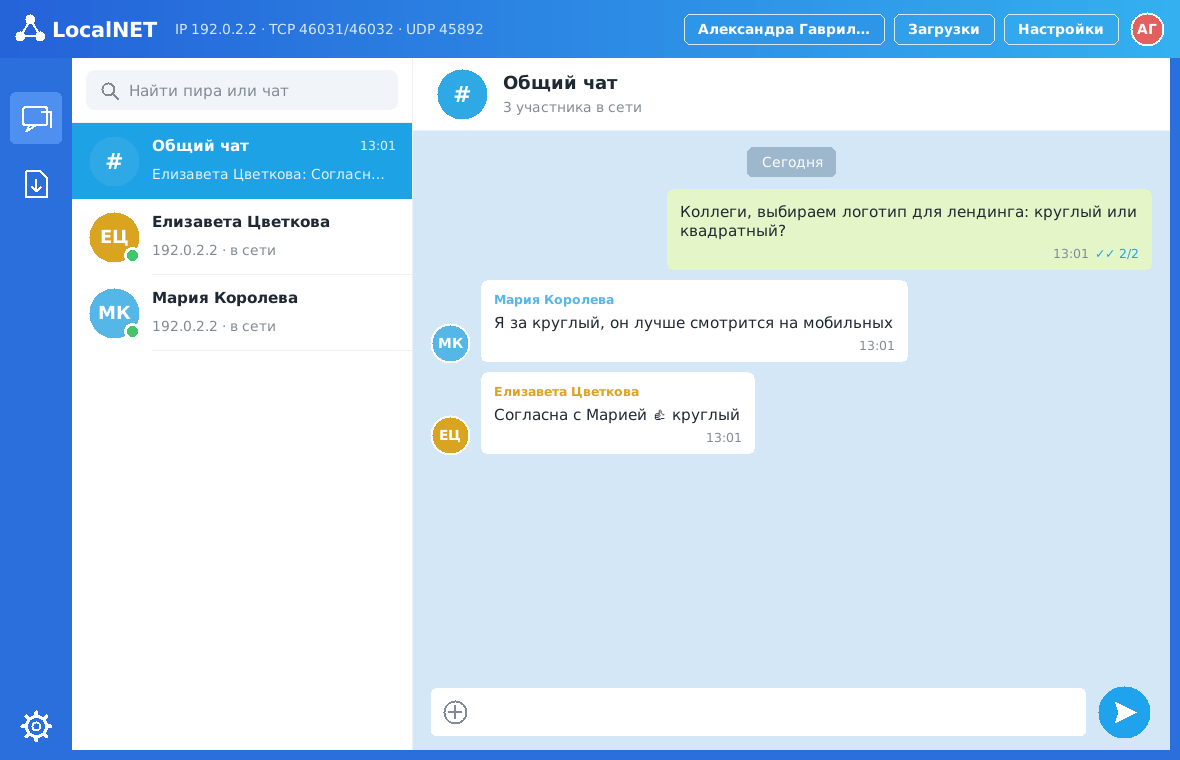
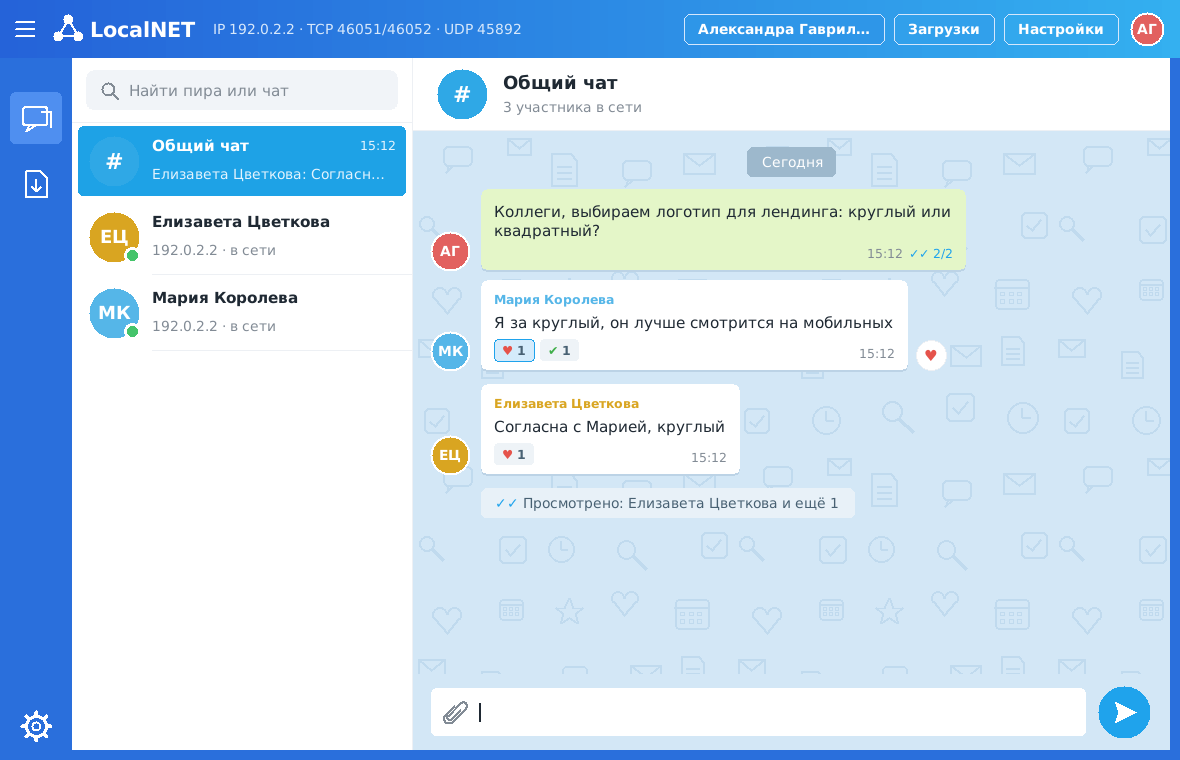
docs: история, прочтение и реакции; новые скриншоты
Claude-Session: https://claude.ai/code/session_01SgVpVZMk52zURE2ZvYqCeM

diff --git a/README.md b/README.md
@@ -6,7 +6,9 @@
 друг друга за пару секунд.
 
 * **Автообнаружение** — UDP broadcast + multicast, пиры появляются за ≤ 2 с, уходят в offline через 6 с.
-* **Чат** — общий (всем online-пирам) и личный; подтверждения доставки ✓.
+* **Чат** — общий (всем online-пирам) и личный; доставка ✓✓, «Просмотрено: …», реакции ♥ ✔ ★ ☺ ☹.
+* **История переписки** сохраняется на диске и подгружается после перезапуска; собеседники
+  не в сети остаются в списке.
 * **Файлы** — прямой TCP, `sendfile()` (zero-copy) на Linux, chunked-режим на Windows;
   SHA-256 проверка целостности, прогресс и скорость, отмена, **докачка** после обрыва.
   RAM не зависит от размера файла (1 ГБ передаётся при ~25 МБ RSS).
@@ -77,17 +79,23 @@ python3 -m localnet --cli      # консольный режим
 ### Как пользоваться (GUI)
 
 * **Слева** — разделы: «Чаты» и «Файлы» (все передачи), внизу — настройки.
-* **Список чатов**: «Общий чат» (сообщение получат все в сети) и все найденные участники —
-  аватар, имя, последнее сообщение, время, счётчик непрочитанных; зелёная точка — в сети.
-  Поиск сверху фильтрует по имени и IP.
-* **Переписка**: свои сообщения справа (зелёные), чужие слева. ✓ — отправлено,
-  ✓✓ — доставлено, `✓✓ 2/3` — доставлено двум из трёх. Правый клик — копировать текст.
-* **Файлы**: кнопка «Отправить файл» в заголовке чата или «⊕» у поля ввода. Передача
+* **Список чатов**: «Общий чат» (сообщение получат все в сети), участники в сети и знакомые
+  по истории — аватар, имя, последнее сообщение, время, счётчик непрочитанных; зелёная
+  точка — в сети. Поиск сверху фильтрует по имени и IP. «☰» в шапке скрывает список.
+* **Переписка**: все сообщения слева, свои — зелёные (как в корпоративных мессенджерах;
+  в настройках можно перенести свои вправо). ✓ — отправлено, серые ✓✓ — доставлено,
+  синие ✓✓ — прочитано; под последним своим сообщением — «Просмотрено: Мария и ещё 1».
+  Сообщение считается прочитанным, когда его чат открыт в активном окне.
+* **Реакции**: наведите на сообщение — справа появится ♡, щелчок ставит/снимает ♥.
+  Правый клик — меню реакций (♥ нравится, ✔ согласен, ★ важно, ☺ смешно, ☹ грустно)
+  и «Копировать текст». Реакции видят все участники чата.
+* **Файлы**: кнопка «Отправить файл» в заголовке чата или скрепка у поля ввода. Передача
   показывается карточкой прямо в переписке: прогресс, скорость, «Отменить»; входящий файл —
   «Принять» / «Отклонить» (или включите автоприём в настройках). После проверки хеша —
   «Открыть папку». Неудачную отправку можно повторить одной кнопкой (с докачкой).
 * **Настройки** (шестерёнка, кнопка в шапке или свой аватар): имя, папка для файлов
-  (по умолчанию `~/Downloads/LocalNET`), автоприём, сведения об IP и портах.
+  (по умолчанию `~/Downloads/LocalNET`), автоприём, расположение своих сообщений,
+  сохранение истории и «Очистить историю…», сведения об IP, портах и файлах.
 
 ### CLI
 
@@ -132,7 +140,9 @@ python -m localnet --cli [--nickname Вася] [--auto-accept]
   "announce_interval": 1.0,
   "peer_timeout": 6.0,
   "log_level": "INFO",
-  "transport": "auto"
+  "transport": "auto",
+  "save_history": true,
+  "own_messages_right": false
 }
 ```
 
@@ -149,6 +159,8 @@ python -m localnet --cli [--nickname Вася] [--auto-accept]
 | `download_dir` | Папка входящих файлов. Пусто — `~/Downloads/LocalNET`. |
 | `auto_accept` | Принимать файлы без вопроса. |
 | `transport` | Транспорт сообщений: `auto` (pyzmq, если есть, иначе чистый Python), `zmq`, `python`. Совместимы между собой. |
+| `save_history` | Сохранять историю переписки на диске (по умолчанию да). |
+| `own_messages_right` | Свои сообщения справа (по умолчанию все слева). |
 
 ### Как поменять порт
 
@@ -157,6 +169,12 @@ python -m localnet --cli [--nickname Вася] [--auto-accept]
 
 `discovery_port` должен быть одинаковым у всех. TCP-порты могут различаться —
 каждый узел сообщает свои порты в анонсах. Порты ≤ 1024 не используются (они требуют прав root).
+
+История переписки — файл SQLite рядом с настройками: `config.json` → `config.history.db`
+(в portable-режиме — рядом с программой). Там же хранится постоянный ID узла, по которому
+собеседники узнают вас после перезапуска. Файл не шифруется; при копировании на другой
+компьютер или другому пользователю ID узла создаётся заново. Отключить — `save_history: false`,
+очистить — кнопкой в настройках.
 
 Логи: `%APPDATA%\LocalNET\logs\localnet.log` или `~/.config/localnet/logs/localnet.log`
 (ротация, 3 × 2 МБ). Подробный лог — флаг `--debug`.
@@ -284,6 +302,7 @@ python -m pytest -v
 | `tests/test_discovery.py` | разбор/валидация presence-пакетов, подписи и защита от повтора, таблица пиров (offline, забывание, перезапуск узла) |
 | `tests/test_file_transfer.py` | потоковый SHA-256, безопасные имена файлов, кадрирование, chunked- и sendfile-передача с offset, полный протокол на loopback: успех, пустой файл, коллизия имён, отказ, неверный секрет, отмена отправителем и получателем, **докачка**, обнаружение повреждения |
 | `tests/test_messaging.py` | личные и общие сообщения, подтверждения, неизвестный пир, неверный секрет — для всех сочетаний транспортов (pyzmq ↔ чистый Python), heartbeat libzmq, переподключение |
+| `tests/test_history.py` | история: сохранение и загрузка сообщений, отметок, реакций и передач, непрочитанные, постоянный ID узла, повреждённый файл |
 | `tests/test_zmtp.py` | кодек ZMTP 3.0: приветствие, кадры, READY, PING/PONG, несовместимые сокеты, лимиты |
 | `tests/test_config.py` | создание/сохранение настроек, исправление некорректных значений, UTF-8 с BOM, повреждённый файл не перезаписывается |
 
@@ -306,6 +325,7 @@ localnet/
   discovery.py      UDP broadcast/multicast, разбор пакетов, таблица пиров
   messaging.py      чат по протоколу ZeroMQ ROUTER/DEALER с подтверждениями (pyzmq или чистый Python)
   zmtp.py           реализация ZMTP 3.0 на чистом Python (без бинарных зависимостей)
+  history.py        история переписки и постоянный ID узла (SQLite)
   file_transfer.py  TCP-сервер/клиент файлов, sendfile/chunked, SHA-256, докачка
   gui.py            tkinter
   cli.py            консольный интерфейс
@@ -353,6 +373,9 @@ IP пира берётся из адреса отправителя пакета
   собственная реализация ZMTP 3.0 (механизм NULL, ROUTER/DEALER, PING/PONG) на чистом
   Python. Узлы с разными транспортами совместимы «по проводу» — это проверяется тестами.
   Принудительно выбрать: `"transport": "python"` в настройках или `--transport python`.
+* **Прочтение и реакции** — отдельные кадры того же канала: `read` (список id прочитанных
+  сообщений — отправителю) и `react` (id сообщения и код реакции — всем участникам чата).
+  Подтверждения на них не нужны; узлы старых версий их просто игнорируют.
 
 ### Файлы
 
@@ -400,7 +423,8 @@ IP пира берётся из адреса отправителя пакета
   интерфейс — добавьте адрес подсети в `broadcast_addresses`.
 * Без шифрования трафика: секрет даёт аутентификацию (HMAC), но не конфиденциальность.
   Для LAN этого обычно достаточно; шифрование (CurveZMQ / TLS) — в планах.
-* История чата хранится только в памяти до закрытия программы.
+* История переписки хранится локально у каждого участника: сообщения, отправленные, пока
+  вы были не в сети, не доставляются (нет сервера). Файл истории не шифруется.
 * Linux-сборка — только x86_64; для других архитектур (например, Эльбрус, ARM) —
   python-вариант.
 * На реальной Astra Linux программа не проверялась (только совместимость по glibc/Python).
